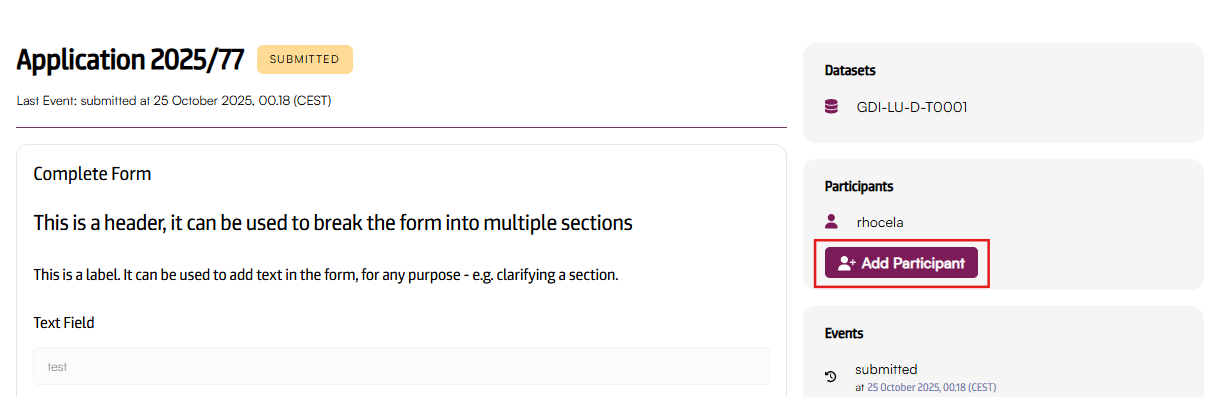
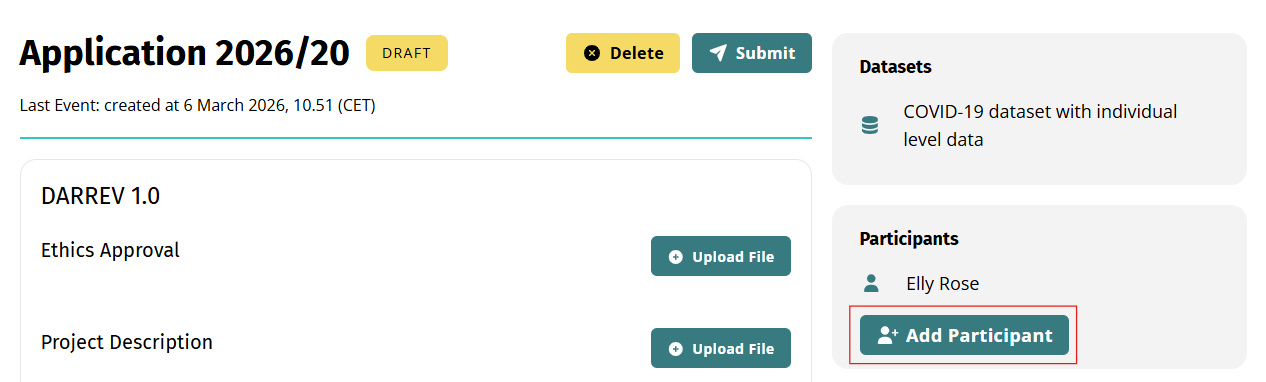
docs ART-23849 Update screenshots

diff --git a/documentation/docs/user-guide/request-datasets/apply-for-access.md b/documentation/docs/user-guide/request-datasets/apply-for-access.md
@@ -49,10 +49,10 @@ To apply for access to datasets:
 
 4. Review your list of datasets and select **Request now** to create an application. The application form opens.
 
-   <figure>
+<figure>
    <img src="img/request-access/request-now.png" alt="Screenshot of the Request now button on the Basket page" width="900" />
    <figcaption></figcaption>
-   </figure>
+</figure>
 
 5. Submit the requirements to access the dataset. This can include filling out forms and uploading documents, depending on the dataset. Here's an example of requirements including document uploads:
 
@@ -63,9 +63,14 @@ To apply for access to datasets:
 
 <br/>
 
-6. (Optional) Need help with your application? Select **Add Participant** for collaborators to access your application, submit requirements, and continue your application.
+6. (Optional) Need help with your application? Select **Add Participant** for collaborators to access your application, submit requirements, and continue your application. For a detailed guide, see: [Add participants](/add-participants).
 
 7. Review the **Terms & Conditions** and select **Accept All** to agree to the terms.
+
+<figure>
+    <img src="img/request-access/accept-tc.png" alt="Screenshot of Terms and Conditions section with Accept All button" width="450" />
+    <figcaption></figcaption>
+</figure>
 
 8. Select **Submit** to complete your application. You will receive email notifications for status updates and if additional documentation is required.
 

diff --git a/documentation/docs/user-guide/request-datasets/download-datasets.md b/documentation/docs/user-guide/request-datasets/download-datasets.md
@@ -33,8 +33,8 @@ To view your approved datasets:
 2. Select the **Entitlements** tab to see the list of your approved datasets.
 
 <figure>
-    <img src="img/download-datasets/view-approved-datasets.png" alt="Screenshot of the View Approved Datasets page" width="900" />
-    <figcaption></figcaption>
+<img src="img/download-datasets/view-approved-datasets.png" alt="Screenshot of the View Approved Datasets page" width="900" />
+<figcaption></figcaption>
 </figure>
 
 3. Select the dataset to view its details. This view only displays the metadata of your approved datasets. To download and work with the datasets, use the Secure Processing Environment (SPE) as instructed in your approval email.

diff --git a/documentation/docs/user-guide/request-datasets/add-participants.md b/documentation/docs/user-guide/request-datasets/add-participants.md
@@ -24,8 +24,8 @@ To add participants to your application:
 3. Select **Add Participant** on the application details page.
 
 <figure>
-    <img src="img/add-participant/add-participant.png" alt="Screenshot showing the Add Participant button and process" width="900" />
-    <figcaption></figcaption>
+<img src="img/add-participant/add-participant.png" alt="Screenshot showing the Add Participant button and process" width="900" />
+<figcaption></figcaption>
 </figure>
 
 4. Enter the name and email address you want to invite and select **Send**. Do this for each participant you want to add.
